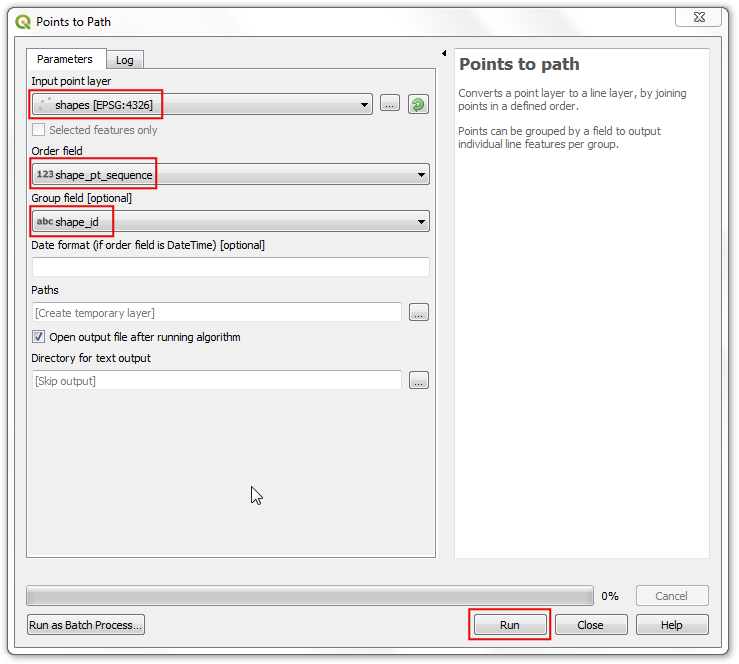
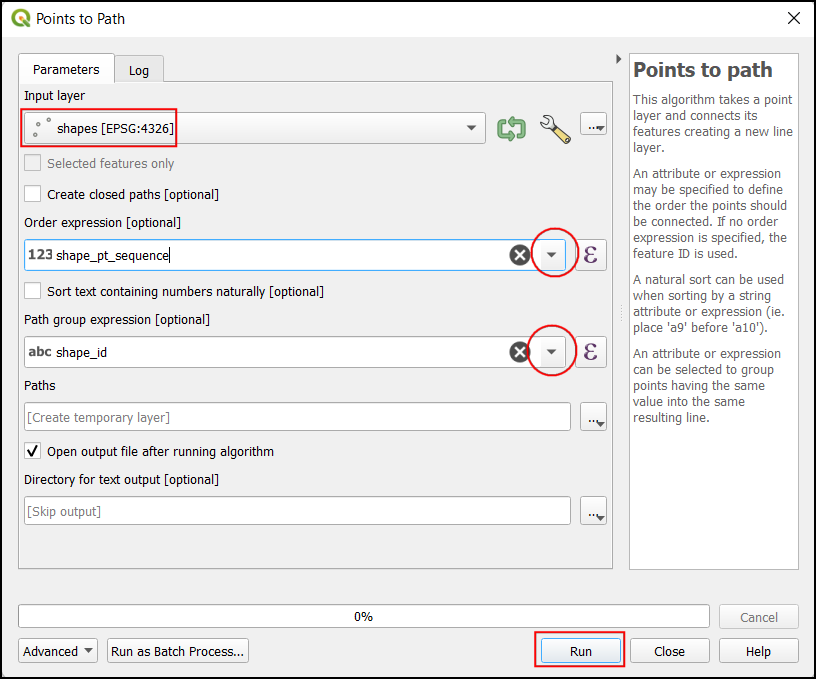
update image

diff --git a/source/docs/3/service_area_analysis.rst b/source/docs/3/service_area_analysis.rst
@@ -82,7 +82,7 @@ Procedure
   .. image:: /static/3/service_area_analysis/images/5.png
     :align: center
 
-6. Select ``shapes`` as the :guilabel:`Input point layer`. As per GTFS specifications, each individual route has a unique ``shape_id`` so select that as the :guilabel:`Group field`. We can also specify the order of points that will form the line by selecting ``shape_pt_sequence`` as the :guilabel:`Order field`. Click :guilabel:`Run`.
+6. In the :guilabel:`Points to Path` dialog, select ``shapes`` as the :guilabel:`Input point layer`. As per GTFS specifications, each individual route has a unique ``shape_id`` so select that from the drop-down menu as the :guilabel:`Path group expression`. We can also specify the order of points that will form the line by selecting ``shape_pt_sequence`` as the :guilabel:`Order expression`. Click :guilabel:`Run`.
 
   .. image:: /static/3/service_area_analysis/images/6.png
     :align: center
